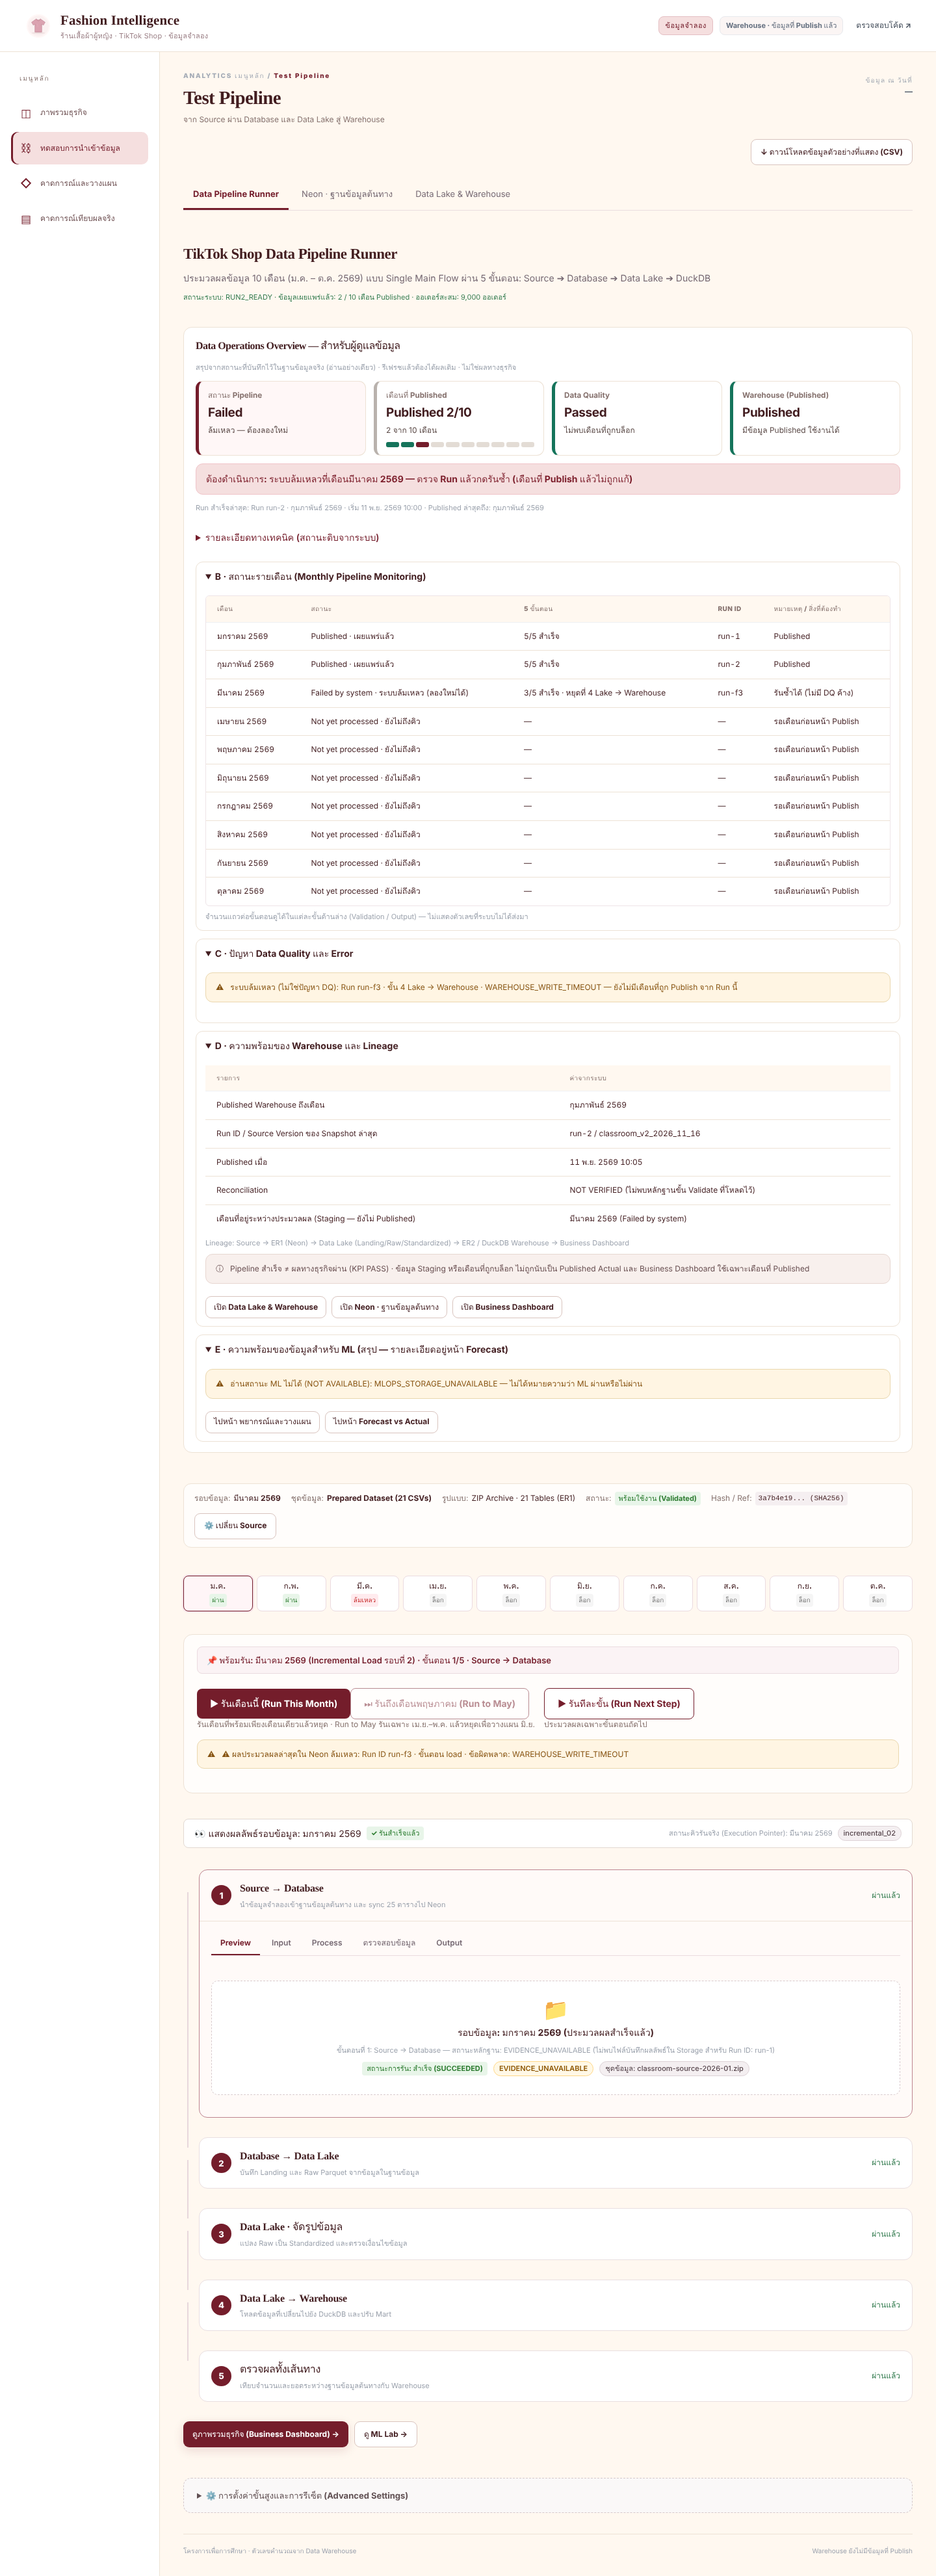
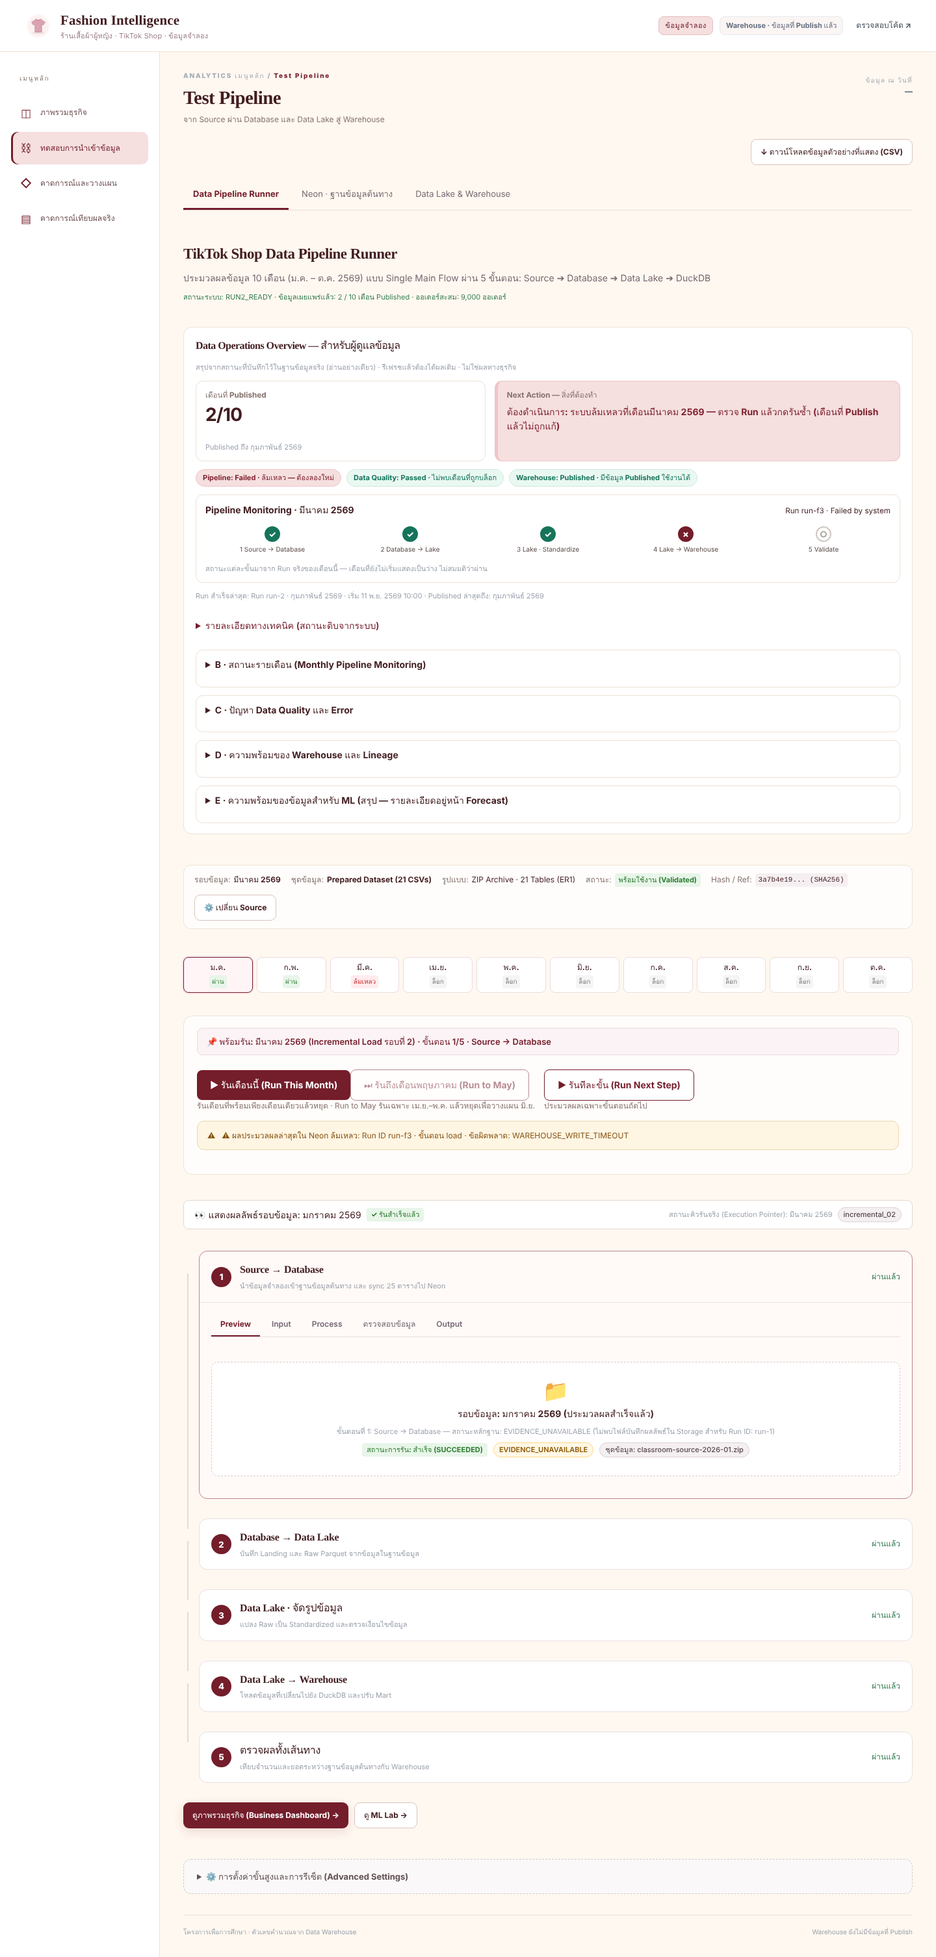
Data Operations Overview: compact layout (Published N/10, Next Action, 5-stage strip), details collapsed
Claude-Session: https://claude.ai/code/session_01F3u1osfmrDE6ytTKL8MmVL

diff --git a/dashboard/app.js b/dashboard/app.js
@@ -2679,24 +2679,36 @@
     wrap.append(small("สรุปจากสถานะที่บันทึกไว้ในฐานข้อมูลจริง (อ่านอย่างเดียว) · รีเฟรชแล้วต้องได้ผลเดิม · ไม่ใช่ผลทางธุรกิจ"));
     if (!ov.verified) { wrap.append(notice("ยังอ่านสถานะ Pipeline จากฐานข้อมูลไม่ได้ (NOT VERIFIED) — ไม่แสดงตัวเลขเพื่อไม่ให้เข้าใจผิดว่าเป็น 0 หรือผ่าน", true)); root.append(wrap); return; }
 
-    // A. health cards + action required
+    // A. compact header: Published N/10 | Next Action, status chips, 5-stage strip of the month in focus
     const meter = box("ops-meter"); rows.forEach(r => meter.append(node("span", "ops-meter-cell ops-" + r.tone, "")));
-    const cards = box("ops-cards");
-    cards.append(opsCard("สถานะ Pipeline", OPS_PIPELINE[ov.pipeline]),
-      opsCard("เดือนที่ Published", [ov.published + " จาก " + ov.total + " เดือน", "Published " + ov.published + "/" + ov.total, ov.published === ov.total ? "ok" : "idle"], meter),
-      opsCard("Data Quality", OPS_DQ[ov.dq]),
-      opsCard("Warehouse (Published)", OPS_WH[ov.warehouse]));
-    wrap.append(cards);
+    const pubBlock = box("ops-block", node("small", "ops-card-title", "เดือนที่ Published"), node("strong", "ops-big", ov.published + "/" + ov.total), meter,
+      small(ov.publishedThrough ? "Published ถึง " + thaiMonth(ov.publishedThrough) : "ยังไม่มีเดือน Published"));
+    const nextBlock = box("ops-block", node("small", "ops-card-title", "Next Action — สิ่งที่ต้องทำ"));
+    const chips = box("ops-chips");
+    [["Pipeline", OPS_PIPELINE[ov.pipeline]], ["Data Quality", OPS_DQ[ov.dq]], ["Warehouse", OPS_WH[ov.warehouse]]].forEach(([k, v]) =>
+      chips.append(node("span", "ops-chip ops-" + v[2], k + ": " + v[1] + " · " + v[0])));
+    wrap.append(box("ops-top", pubBlock, nextBlock), chips);
+    // stage strip for the month that matters now: running > blocked/failed > next runnable > latest published (real run state only)
+    const focus = rows.find(r => r.state === "RUNNING") || rows.find(r => ["DATA_QUALITY_BLOCKED", "SYSTEM_FAILED"].includes(r.state)) || rows.find(r => r.state === "RUNNABLE") || [...rows].reverse().find(r => r.state === "PUBLISHED");
+    if (focus) {
+      const strip = box("ops-stages"), idx = PS.STAGE_ORDER.indexOf(focus.lastStage);
+      PS.STAGE_ORDER.forEach((st, i) => {
+        const kind = focus.state === "PUBLISHED" ? "ok" : focus.state === "RUNNING" ? (i < idx ? "ok" : i === idx ? "run" : "idle") :
+          ["DATA_QUALITY_BLOCKED", "SYSTEM_FAILED"].includes(focus.state) && idx >= 0 ? (i < idx ? "ok" : i === idx ? "bad" : "idle") : "idle";
+        strip.append(box("ops-stage ops-" + kind, node("span", "ops-dot", kind === "ok" ? "✓" : kind === "bad" ? "✗" : kind === "run" ? "●" : "○"), node("small", "", OPS_STAGE_TH[st])));
+      });
+      wrap.append(box("ops-stagebox", box("ops-stagehead", node("strong", "", "Pipeline Monitoring · " + thaiMonth(focus.month)), node("small", "", "Run " + (focus.runId || "—") + " · " + focus.label)), strip,
+        small("สถานะแต่ละขั้นมาจาก Run จริงของเดือนนี้ — เดือนที่ยังไม่เริ่มแสดงเป็นว่าง ไม่สมมติว่าผ่าน")));
+    }
     const act = ov.action, month = act?.batch ? (labels[act.batch] ? thaiMonth(labels[act.batch]) : act.batch) : "";
     const actText = !act ? null : { REVIEW_FIX: ["ต้องดำเนินการ: Review & Fix ปัญหา DQ ของ" + month + " แล้ว Revalidate & Resume", "bad"],
       RETRY: ["ต้องดำเนินการ: ระบบล้มเหลว" + (month ? "ที่เดือน" + month : "ที่ขั้นล่าสุด") + " — ตรวจ Run แล้วกดรันซ้ำ (เดือนที่ Publish แล้วไม่ถูกแก้)", "bad"],
       RUN: ["ถัดไป: รันเดือน" + month, "ready"], WAIT: ["กำลังรัน — รอจนจบ ไม่ต้องกดซ้ำ", "run"],
       PREREQUISITE: ["รอเงื่อนไข: " + ({ PREVIOUS_MONTH_NOT_PUBLISHED: "เดือนก่อนหน้ายังไม่ Publish", FORECAST_NOT_SEALED: "ต้อง Seal Official Forecast ก่อน", FORECAST_SCHEMA_MISSING: "ยังไม่ติดตั้ง Migration demo_ml" }[(state.monthStates || []).find(m => m.state === "LOCKED")?.reason] || "ยังไม่พร้อม"), "idle"] }[act.kind];
     if (actText) {
-      const banner = box("ops-action ops-" + actText[1], node("strong", "", actText[0]));
+      const banner = nextBlock; banner.classList.add("ops-action", "ops-" + actText[1]); banner.append(node("strong", "", actText[0]));
       if (act.kind === "REVIEW_FIX") banner.append(opsGo("ไปที่ Review & Fix", () => { state.dq.open = true; renderPipeline(); setTimeout(() => document.querySelector(".review-fix-drawer, .alert-banner-blocked")?.scrollIntoView({ behavior: "smooth" }), 50); }));
-      wrap.append(banner);
-    } else if (ov.pipeline === "COMPLETED") wrap.append(box("ops-action ops-ok", node("strong", "", "ไม่มีงานที่ต้องดำเนินการ — ครบ 10 เดือนแล้ว")));
+    } else nextBlock.append(node("strong", "", ov.pipeline === "COMPLETED" ? "ไม่มีงานที่ต้องดำเนินการ — ครบ 10 เดือนแล้ว" : "—"));
     wrap.append(small("Run สำเร็จล่าสุด: " + (ov.last ? "Run " + ov.last.runId + " · " + (labels[ov.last.batch] ? thaiMonth(labels[ov.last.batch]) : ov.last.batch) + " · เริ่ม " + opsTime(ov.last.startedAt) : "ยังไม่มี") +
       " · Published ล่าสุดถึง: " + (ov.publishedThrough ? thaiMonth(ov.publishedThrough) : "ยังไม่มี")));
     const tech = node("details", "dq-details"); tech.append(node("summary", "", "รายละเอียดทางเทคนิค (สถานะดิบจากระบบ)"));
@@ -2708,7 +2720,7 @@
     wrap.append(tech);
 
     // B. monthly monitoring
-    const mon = opsSection("month", "B · สถานะรายเดือน (Monthly Pipeline Monitoring)");
+    const mon = opsSection("month", "B · สถานะรายเดือน (Monthly Pipeline Monitoring)", false);
     mon.append(box("table-scroll-x", dataTable([["month", "เดือน"], ["status", "สถานะ"], ["stages", "5 ขั้นตอน"], ["run", "Run ID"], ["note", "หมายเหตุ / สิ่งที่ต้องทำ"]],
       rows.map(r => ({ month: thaiMonth(r.month), status: r.label + " · " + r.thai,
         stages: r.stagesDone === null ? "—" : r.stagesDone + "/5 สำเร็จ" + (r.stagesDone < 5 && r.lastStage ? " · หยุดที่ " + (OPS_STAGE_TH[r.lastStage] || r.lastStage) : ""),

diff --git a/dashboard/styles.css b/dashboard/styles.css
@@ -917,3 +917,19 @@ tr:hover td{background:#fff8f0}.metric-label,.metric-sub,.panel-description{colo
 .ops-links{display:flex;gap:8px;flex-wrap:wrap}.ops-link{min-height:34px;padding:6px 12px}
 @media(max-width:900px){.ops-cards{grid-template-columns:repeat(2,minmax(0,1fr))}}
 @media(max-width:560px){.ops-cards{grid-template-columns:1fr}.ops-overview{padding:12px}}
+/* compact header (layout per expert sample) */
+.ops-top{display:grid;grid-template-columns:1fr 1.4fr;gap:14px}
+.ops-block{border:1px solid var(--line);border-radius:11px;padding:12px 14px;display:flex;flex-direction:column;gap:6px;min-width:0}
+.ops-big{font-size:28px;letter-spacing:-.8px;line-height:1.1}
+.ops-block.ops-action{border-left-width:5px}
+.ops-chips{display:flex;gap:8px;flex-wrap:wrap}.ops-chip{font-size:11px;font-weight:700;padding:4px 10px;border-radius:999px;border:1px solid var(--line);background:#fff}
+.ops-chip.ops-ok{color:var(--good);background:var(--good-soft);border-color:#cfe9de}.ops-chip.ops-bad{color:#7d1f2c;background:var(--red-soft);border-color:#f0c4c9}.ops-chip.ops-run{color:#1f4f87;background:#e8f0fb;border-color:#c9daf0}.ops-chip.ops-ready{color:#7a4e0c;background:var(--warn-soft);border-color:#f0e0b6}.ops-chip.ops-idle{color:#5b4a47;background:#f6f2ed}
+.ops-stagebox{border:1px solid var(--line);border-radius:11px;padding:12px 14px;display:flex;flex-direction:column;gap:8px}
+.ops-stagehead{display:flex;justify-content:space-between;gap:10px;flex-wrap:wrap;align-items:baseline}
+.ops-stages{display:grid;grid-template-columns:repeat(5,1fr);gap:6px}
+.ops-stage{display:flex;flex-direction:column;align-items:center;gap:4px;text-align:center;padding:6px 2px;border-radius:9px}
+.ops-dot{width:24px;height:24px;border-radius:50%;display:grid;place-items:center;font-size:13px;font-weight:800;border:2px solid #cfc7c0;color:#a39a93;background:#fff}
+.ops-stage.ops-ok .ops-dot{background:var(--good);border-color:var(--good);color:#fff}.ops-stage.ops-bad .ops-dot{background:var(--red);border-color:var(--red);color:#fff}.ops-stage.ops-run .ops-dot{border-color:#2563a8;color:#2563a8}
+.ops-stage small{font-size:10px;color:#5b4a47}
+@media(max-width:700px){.ops-top{grid-template-columns:1fr}.ops-stages{grid-template-columns:repeat(5,minmax(0,1fr))}.ops-stage small{font-size:9px}}
+.ops-block{align-items:flex-start;text-align:left}

diff --git a/docs/data_operations/DATA_OPERATIONS_TH.md b/docs/data_operations/DATA_OPERATIONS_TH.md
@@ -29,6 +29,8 @@
 
 กติกาสถานะ: Running > Blocked(DQ) > Failed(system) > Completed(10/10) > Ready > Waiting; DQ: Failed=มีเดือนบล็อกและยังไม่แก้, Pending=READY_TO_RESUME, Passed=มีเดือน Published และไม่มีบล็อก, Not Checked=ยังไม่รัน, NOT VERIFIED=Migration/API อ่านไม่ได้; Warehouse: Published ต้องมี snapshot จาก API.
 
+**Layout (ปรับตามตัวอย่างของผู้เชี่ยวชาญ, กะทัดรัด):** แถวบน = Published N/10 + Next Action; แถบสถานะ Pipeline/DQ/Warehouse; แถบ 5 ขั้นของเดือนที่โฟกัส (Running > Blocked/Failed > Ready > Published ล่าสุด) จาก Run จริง; รายละเอียด B–E พับไว้ (C เปิดเองเมื่อมีปัญหา) ภาพกะทัดรัด: `screenshots/ops_*_desktop_compact.png`
+
 ## D. Test Evidence
 - Unit: `node --test tests/js/*.test.mjs` → **57/57 PASS** (เพิ่ม 8 กรณี: not loaded, ready, March blocked, pending, system failed, running, snapshot missing/0/10 เดือน, fallback)
 - UI (Playwright + mock Backend รูปแบบเดียวกับ API จริง, `tests/integration/ops_overview_harness.mjs`; ML ใช้ Artifact จริงจาก Fixture local): ภาพใน `screenshots/`
